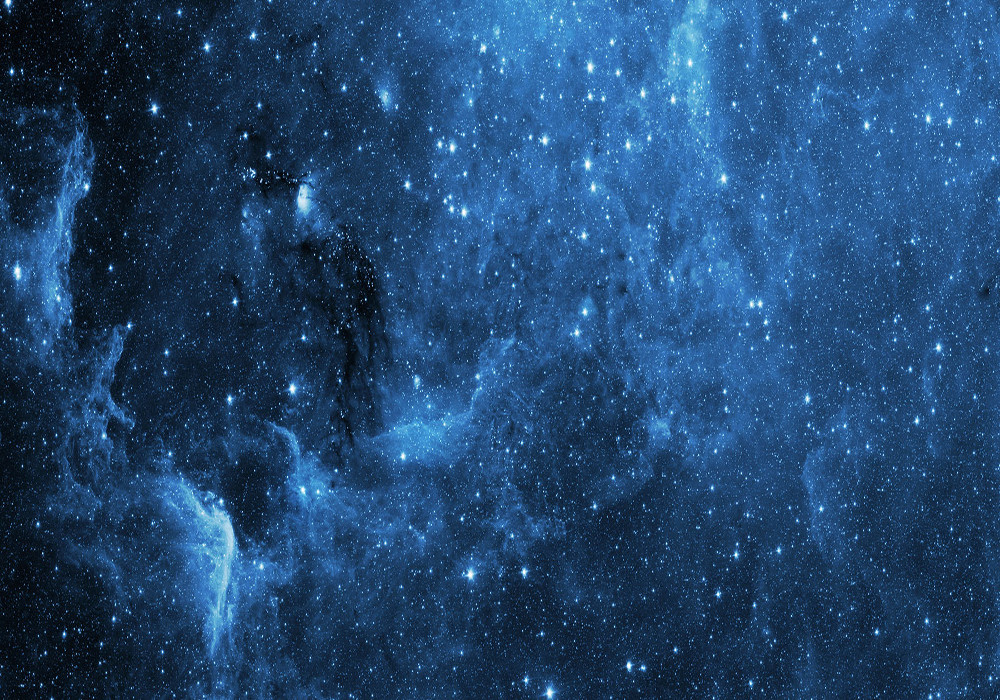
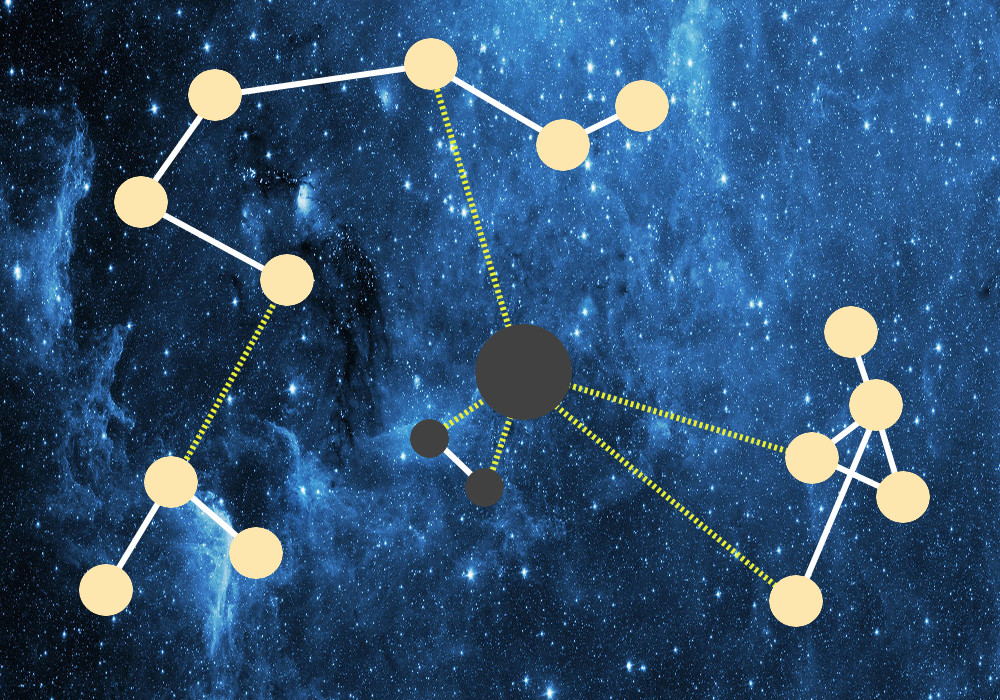
menu added start colony added

diff --git a/src/Phaser2dWar/wwwroot/scripts/main.js b/src/Phaser2dWar/wwwroot/scripts/main.js
@@ -1,21 +1,51 @@
 /// <reference path="phaser.js" />
 var game = new Phaser.Game(1000, 700, Phaser.CANVAS, 'main', { preload: preload, create: create });
-var inTxt;
+var inTxt, background, menu;
+
+//bases
+var homeBaseRect;
 
 function preload() {
     game.load.image('background', 'images/background.jpg');
-    game.load.spritesheet('planets', 'images/planets.png', 275, 275);
-    
+    game.load.spritesheet('planets', 'images/planets.png', 110, 110);
+    game.load.spritesheet('menu', 'images/menu.jpg');
 }
 
 
 function create() {
-    game.add.sprite(0, 0, 'background');
-    var homePlanet = game.add.sprite(game.world.centerX, game.height - 100, 'planets', 7);
-    homePlanet.anchor.set(0.5);
-    homePlanet.scale.set(0.3);
+    background = game.add.sprite(0, 0, 'background');
+    
 
-    inTxt = game.add.text(game.world.centerX, 10, "Place your starting world.", { fill: 'white' });    
-    inTxt.anchor.set(0.5, 0);
+    //starting colony
+    var homeBase = game.add.sprite(106, 591, 'planets', 3);
+    homeBase.anchor.set(0.5);
+    homeBase.inputEnabled = true;
+    homeBase.events.onInputDown.add(BackgroundClicked);
+
+    menu = game.add.sprite(game.width / 2, game.height / 2, 'menu');
+    menu.anchor.set(0.5);
+    menu.visible = false;
+    
 }
+
+function BackgroundClicked(mouse) {
+    menu.visible = !menu.visible;
+}
+
+//player will have a starting planet.
+//-manage cities
+//-send scouting troops
+//-defend planet
+//-mine space resources
+//-mine planet resources
+//stats (pop, money, science, morale, tax)
+//army (ships, men, weapon types with science)
+
+//battles are conducted by determining what types of ships the other people have and what weapons they have. 
+//each round a certain percentage of casualties from both sides determined by superiority of firepower and weapon grade
+
+//when colony advances in size and morale, they can expand. if they are advanced in basic movement then they can also follow the dotted teleport lines.
+
+//ultimate goal is to attack the mothership(central piece), which spawns enemy ships. winning the game
+
 

diff --git a/src/Phaser2dWar/wwwroot/scripts/GameObjects.js b/src/Phaser2dWar/wwwroot/scripts/GameObjects.js
@@ -1,0 +1,3 @@
+Planet = function (name, point, frame) {
+
+}

diff --git a/src/Phaser2dWar/wwwroot/scripts/Events.js b/src/Phaser2dWar/wwwroot/scripts/Events.js
@@ -1,0 +1,1 @@
+/// <reference path="phaser.js" />
